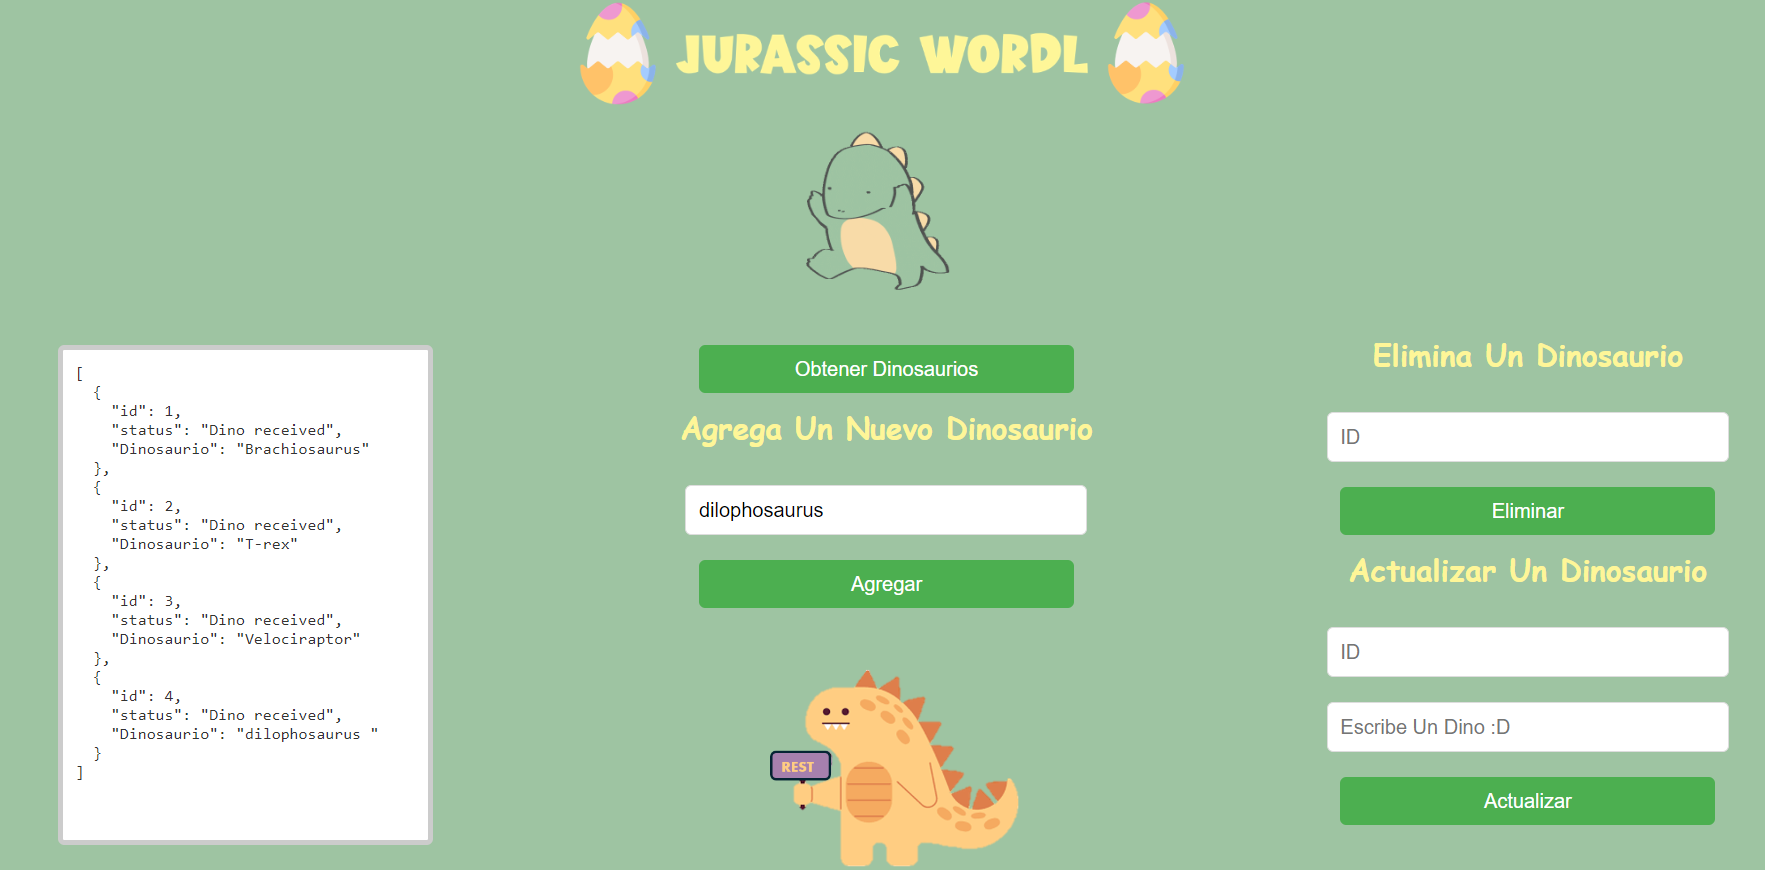
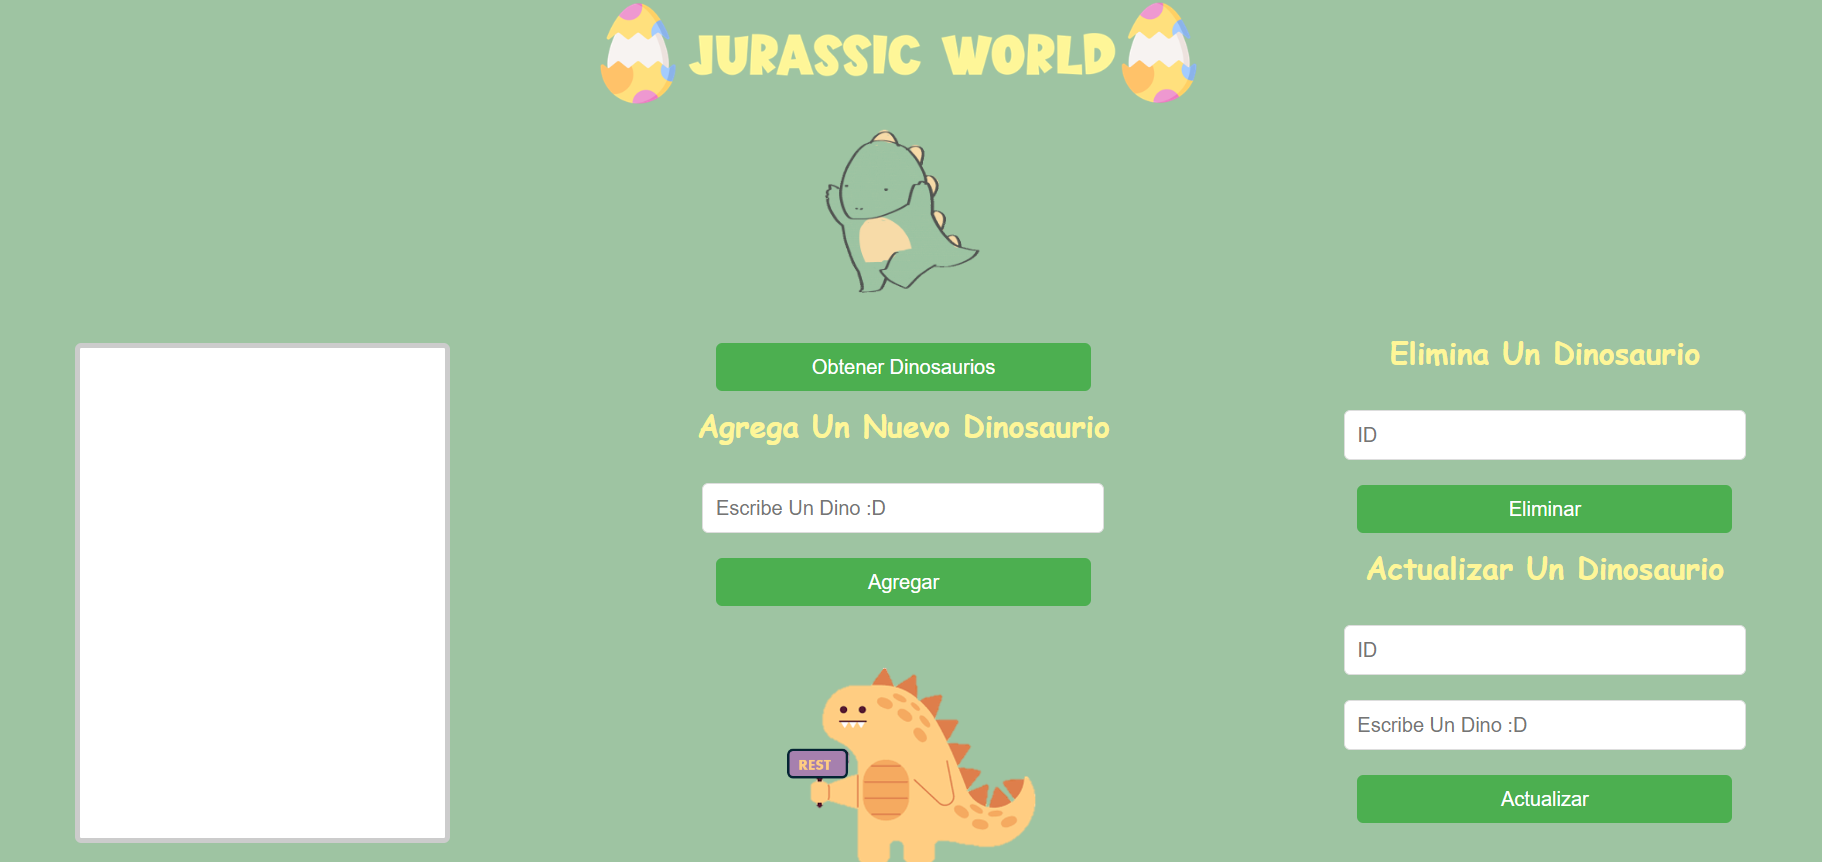
Correcciones

diff --git a/src/webroot/index.html b/src/webroot/index.html
@@ -9,7 +9,7 @@
 </head>
 <body>
 
-<img src="banner.png" class="banner" alt="Imagen de prueba">
+<img src="Titulo.png" class="banner" alt="Imagen de prueba">
 
     <img src="gi.gif" class="dino" alt="imagen de prueba">
 
